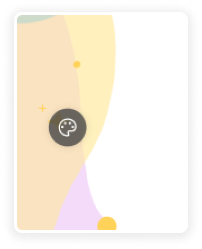
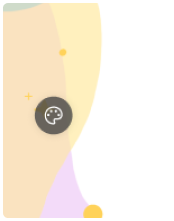
chore : 소개페이지 image 변경

diff --git a/src/theme/GlobalStyle.ts b/src/theme/GlobalStyle.ts
@@ -10,7 +10,7 @@ import { DateContainer,DateContent,WeatherWrap, StyledSunny, StyledCloudy, Style
 import { DrawingBtnWrap, EmojiWrap, Modebutton,Savebutton, Choicetitle, ChoiceKeyword, Arrow, Keyword, DalleTitle, DalleGrim } from "@/styles/diary/diarywrite.style";
 import { SearchWrap,SearchDate,SearchContentContainer, SearchTitleWrap, SearchContent } from "@/styles/diary/diarysearch.style";
 import { StyledNavLink } from '@/components/bookshape/Bookmark';
-import { GuideContainer, GuideContent, GuideImgKonlpy, GuideNum, GuideTitle, GuideTitleWrap } from "@/styles/introduce.style";
+import { GuideContainer, GuideContent, GuideImgKonlpy, GuideImgRealDiary, GuideImgTheme, GuideNum, GuideTitle, GuideTitleWrap } from "@/styles/introduce.style";
 
 type DefaultTheme = {
   bgImg?: string;
@@ -338,7 +338,7 @@ export const GlobalStyle = createGlobalStyle`
       font-size: 14px;
       line-height: 19px;
     }
-    ${GuideImgKonlpy} {
+    ${GuideImgKonlpy}, ${GuideImgTheme}, ${GuideImgRealDiary} {
       margin-top: 8px;
     }
   }
@@ -649,7 +649,7 @@ export const GlobalStyle = createGlobalStyle`
       font-size: 10px;
       line-height: 10px;
     }
-    ${GuideImgKonlpy} {
+    ${GuideImgKonlpy}, ${GuideImgTheme}, ${GuideImgRealDiary} {
       margin-top: 6px;
     }
   }

diff --git a/src/styles/introduce.style.ts b/src/styles/introduce.style.ts
@@ -48,6 +48,7 @@ export const GuideImgWrap = styled.div`
 
 export const GuideImgTheme = styled.img`
   width: 33%;
+  margin-top: 10px;
 `
 
 export const GuideImgKonlpy = styled.img`
@@ -55,5 +56,6 @@ export const GuideImgKonlpy = styled.img`
 `
 
 export const GuideImgRealDiary = styled.img`
-  width: 56%;
+  width: 50%;
+  margin-top: 10px;
 `
